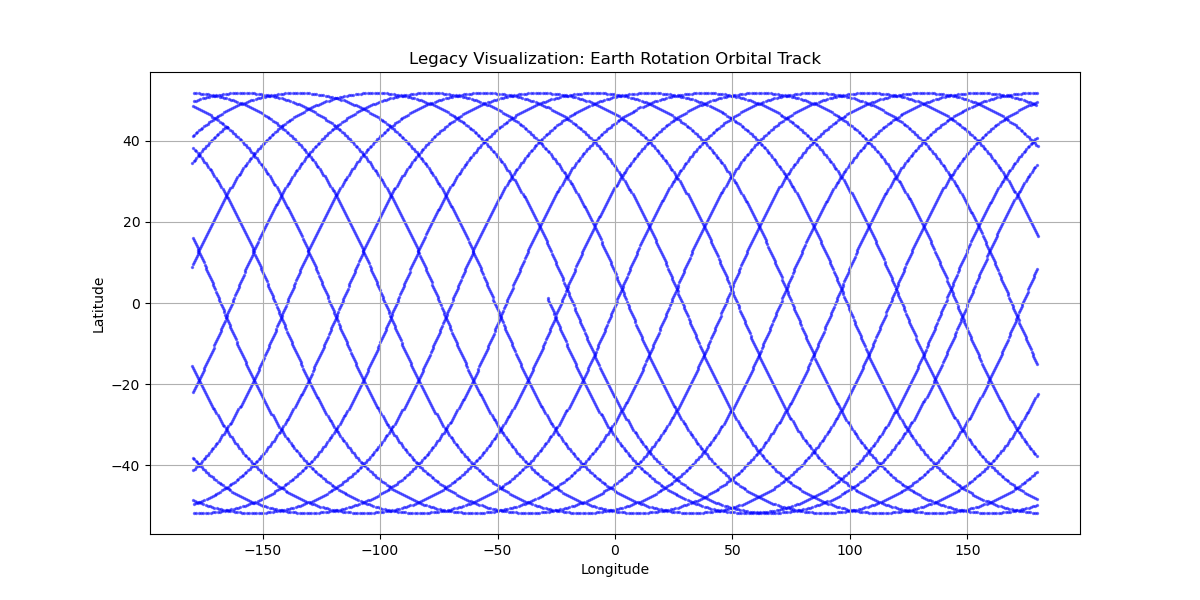
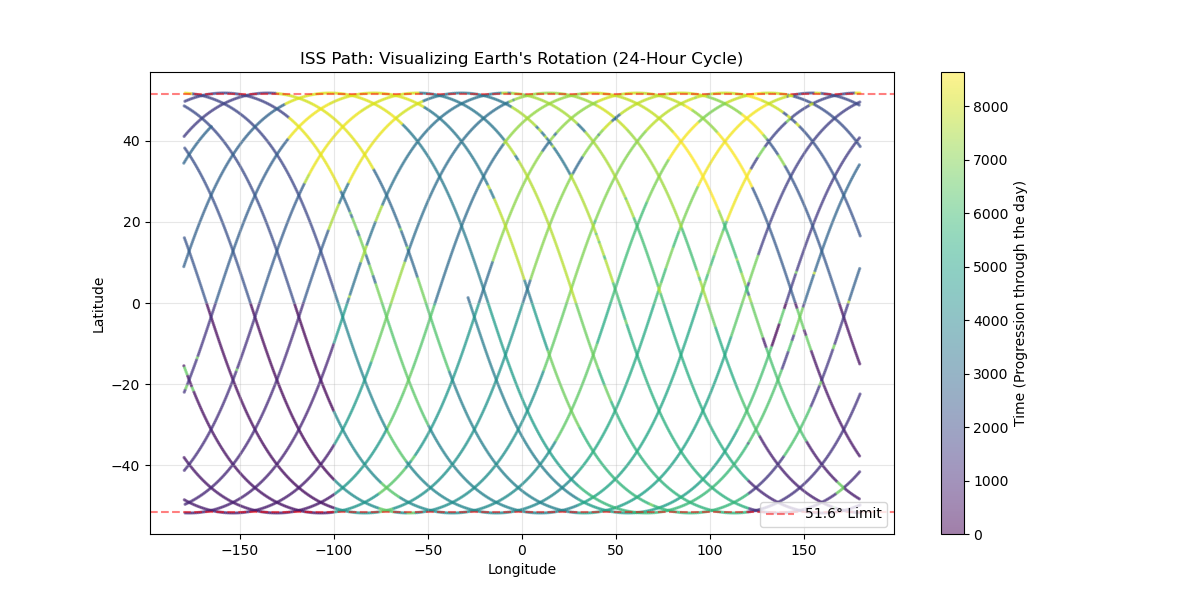
Modifications to the py files and addition of a new analysis method

diff --git a/scripts/telemetry_utils.py b/scripts/telemetry_utils.py
@@ -1,65 +1,111 @@
 import pandas as pd
 import matplotlib.pyplot as plt
+import numpy as np
 
 def generate_legacy_maps(csv_filepath):
-    # I want to exactly recreate the legacy visualizations from my original CMSE 201 project
+    # Loading the raw data just like in the original CMSE 201 project
     df = pd.read_csv(csv_filepath)
     
-    # 1. The Orbital Track (Scatter)
+    # Making sure timestamps are parsed so I can check the total duration
+    df['timestamp'] = pd.to_datetime(df['timestamp'])
+    start_time = df['timestamp'].min()
+    end_time = df['timestamp'].max()
+    duration = end_time - start_time
+    
+    print("--- Legacy CMSE 201 Data Summary ---")
+    print(f"Data Start: {start_time}")
+    print(f"Data End:   {end_time}")
+    print(f"Total Duration: {duration}\n")
+    
+    # Legacy 1: The Orbital Track (Scatter)
+    # Coloring by index to show the progression of time through the day
     plt.figure(figsize=(12, 6))
-    plt.scatter(df['longitude'], df['latitude'], alpha=0.5, color='blue', s=2)
-    plt.title('Legacy Visualization: Earth Rotation Orbital Track')
+    plt.scatter(df['longitude'], df['latitude'], c=df.index, cmap='viridis', s=2, alpha=0.5)
+    
+    plt.colorbar(label='Time (Progression through the day)')
+    plt.title("ISS Path: Visualizing Earth's Rotation (24-Hour Cycle)")
     plt.xlabel('Longitude')
     plt.ylabel('Latitude')
-    plt.grid(True)
+    plt.grid(True, alpha=0.3)
+    
+    # Highlighting the 51.6 degree orbital inclination limits
+    plt.axhline(51.6, color='red', linestyle='--', alpha=0.5, label='51.6° Limit')
+    plt.axhline(-51.6, color='red', linestyle='--', alpha=0.5)
+    plt.legend(loc='lower right')
+    
     plt.savefig('./assets/legacy_orbital_track.png')
     plt.close()
     
-    # 2. The Density Heatmap (Logarithmic Hexbin)
+    # Legacy 2: The Density Heatmap (2D Histogram)
     plt.figure(figsize=(12, 6))
-    plt.hexbin(df['longitude'], df['latitude'], gridsize=50, cmap='inferno', bins='log')
-    plt.title('Legacy Visualization: Global Density Heatmap')
+    plt.hist2d(df['longitude'], df['latitude'], bins=[180, 90], cmap='plasma')
+    
+    plt.colorbar(label='Residence Time (Density)')
+    plt.title('Orbital Bias Heatmap: Identifying Inclination Limits')
     plt.xlabel('Longitude')
     plt.ylabel('Latitude')
-    plt.colorbar(label='log10(N)')
+    
+    # Highlighting the 51.6 degree orbital inclination limits
+    plt.axhline(51.6, color='white', linestyle='--', label='51.6° Limit')
+    plt.axhline(-51.6, color='white', linestyle='--', label='-51.6° Limit')
+    plt.legend(loc='lower right')
+    
     plt.savefig('./assets/legacy_density_heatmap.png')
     plt.close()
 
 def analyze_global_bands(csv_filepath, save_visuals=True):
     df = pd.read_csv(csv_filepath)
     
-    # Michigan's latitude is roughly between 41.5 N and 48.3 N. 
-    # I am tracking this entire horizontal slice around the globe.
-    MI_LAT_MIN = 41.5
-    MI_LAT_MAX = 48.3
+    # Building this as a dictionary so it's easily repurposed by other developers.
+    # Anyone can add a location here and the engine will handle the rest.
+    locations = {
+        'Michigan': {'lat_min': 41.5, 'lat_max': 48.3, 'lon_min': -90.5, 'lon_max': -82.0},
+        'Illinois': {'lat_min': 36.9, 'lat_max': 42.5, 'lon_min': -91.5, 'lon_max': -87.5},
+        'Bangalore': {'lat_min': 12.5, 'lat_max': 13.5, 'lon_min': 77.0, 'lon_max': 78.0}
+    }
     
-    # Bangalore, India is roughly at longitude 77.6 E.
-    # I am tracking the vertical longitudinal band from 77.0 to 78.0 from pole to pole.
-    BLR_LON_MIN = 77.0
-    BLR_LON_MAX = 78.0
+    results = {}
     
-    mi_band_count = 0
-    blr_band_count = 0
-    
-    # Expanding this out so I can explicitly check each coordinate
+    # Initialize the tracking dictionaries
+    for loc in locations.keys():
+        results[loc] = {'Lat_Band_Pings': 0, 'Lon_Band_Pings': 0}
+        
+    # Explicitly iterate through the dataframe to check both bands
     for index, row in df.iterrows():
         lat = row['latitude']
         lon = row['longitude']
         
-        # Check Michigan's horizontal band
-        if (lat >= MI_LAT_MIN and lat <= MI_LAT_MAX):
-            mi_band_count = mi_band_count + 1
-            
-        # Check Bangalore's vertical band
-        if (lon >= BLR_LON_MIN and lon <= BLR_LON_MAX):
-            blr_band_count = blr_band_count + 1
+        for loc, bounds in locations.items():
+            # Check the horizontal global band (Latitude only)
+            if (lat >= bounds['lat_min'] and lat <= bounds['lat_max']):
+                results[loc]['Lat_Band_Pings'] = results[loc]['Lat_Band_Pings'] + 1
+                
+            # Check the vertical global band (Longitude only)
+            if (lon >= bounds['lon_min'] and lon <= bounds['lon_max']):
+                results[loc]['Lon_Band_Pings'] = results[loc]['Lon_Band_Pings'] + 1
                 
     if (save_visuals == True):
-        plt.figure(figsize=(8, 5))
-        plt.bar(['Michigan Lat Band', 'Bangalore Lon Band'], [mi_band_count, blr_band_count], color=['forestgreen', 'darkorange'])
-        plt.title('Macro-Regional Telemetry Density')
+        # Building a grouped bar chart to compare Lat vs Lon fairly
+        labels = list(results.keys())
+        lat_counts = []
+        lon_counts = []
+        
+        for loc in labels:
+            lat_counts.append(results[loc]['Lat_Band_Pings'])
+            lon_counts.append(results[loc]['Lon_Band_Pings'])
+            
+        x = np.arange(len(labels))
+        width = 0.35
+        
+        plt.figure(figsize=(10, 6))
+        plt.bar(x - width/2, lat_counts, width, label='Latitude Band', color='forestgreen')
+        plt.bar(x + width/2, lon_counts, width, label='Longitude Band', color='royalblue')
+        
+        plt.title('Macro-Regional Telemetry Density (Global Bands)')
         plt.ylabel('Total Pings Recorded')
+        plt.xticks(x, labels)
+        plt.legend()
         plt.savefig('./assets/macro_regional_bands.png')
         plt.close()
         
-    return {'Michigan_Band': mi_band_count, 'Bangalore_Band': blr_band_count}
+    return results

diff --git a/scripts/anomaly_detection.py b/scripts/anomaly_detection.py
@@ -1,0 +1,46 @@
+import pandas as pd
+import matplotlib.pyplot as plt
+
+def detect_orbital_anomalies(csv_filepath, save_visuals=True):
+    # The ISS periodically fires thrusters to re-boost its altitude against atmospheric drag.
+    # I want to isolate the top 1% of altitude variances to pinpoint these physical anomalies.
+    df = pd.read_csv(csv_filepath)
+    
+    df['timestamp'] = pd.to_datetime(df['timestamp'])
+    df = df.sort_values(by='timestamp')
+    
+    df['altitude_km'] = pd.to_numeric(df['altitude_km'], errors='coerce')
+    df = df.dropna(subset=['altitude_km'])
+    
+    # Calculate the rolling average of the altitude over a short window
+    df['rolling_alt'] = df['altitude_km'].rolling(window=15).mean()
+    
+    # Find the absolute difference between current altitude and the rolling average
+    df['alt_variance'] = abs(df['altitude_km'] - df['rolling_alt'])
+    
+    # Setting the anomaly threshold at the top 1% of variances
+    threshold = df['alt_variance'].quantile(0.99)
+    
+    anomaly_count = 0
+    for index, row in df.iterrows():
+        if (row['alt_variance'] > threshold):
+            anomaly_count = anomaly_count + 1
+            
+    if (save_visuals == True):
+        plt.figure(figsize=(12, 5))
+        # Plot the standard orbit faintly in the background
+        plt.plot(df['timestamp'], df['altitude_km'], color='lightgray', label='Standard Orbit')
+        
+        # Highlight the detected anomalies in bright red
+        anomalies = df[df['alt_variance'] > threshold]
+        plt.scatter(anomalies['timestamp'], anomalies['altitude_km'], color='red', label='Detected Anomalies (Re-boosts / Drag Spikes)', zorder=5)
+        
+        plt.title('Orbital Anomaly Detection: Altitude Variance')
+        plt.xlabel('Timeline')
+        plt.ylabel('Altitude (km)')
+        plt.legend()
+        plt.tight_layout()
+        plt.savefig('./assets/orbital_anomalies.png')
+        plt.close()
+        
+    return {'Total_Anomalies_Detected': anomaly_count, 'Variance_Threshold': threshold}